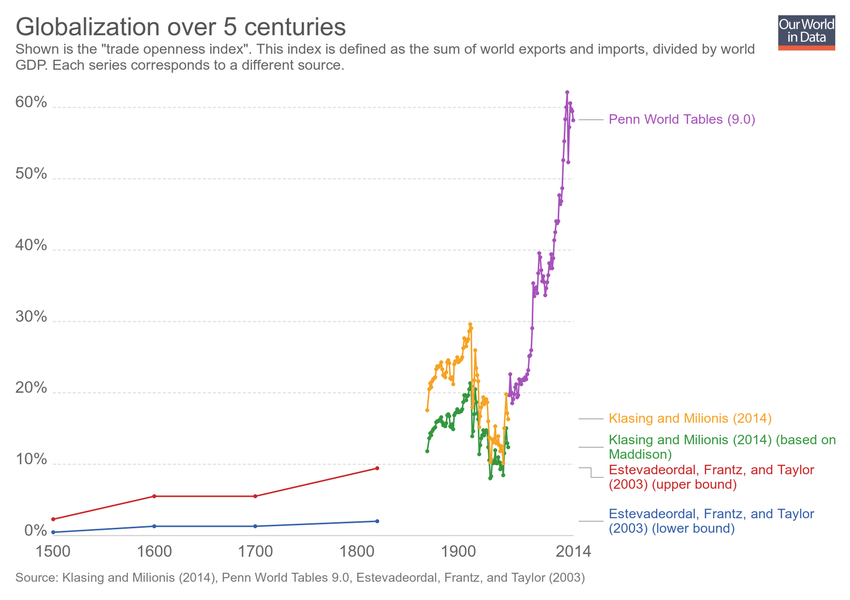
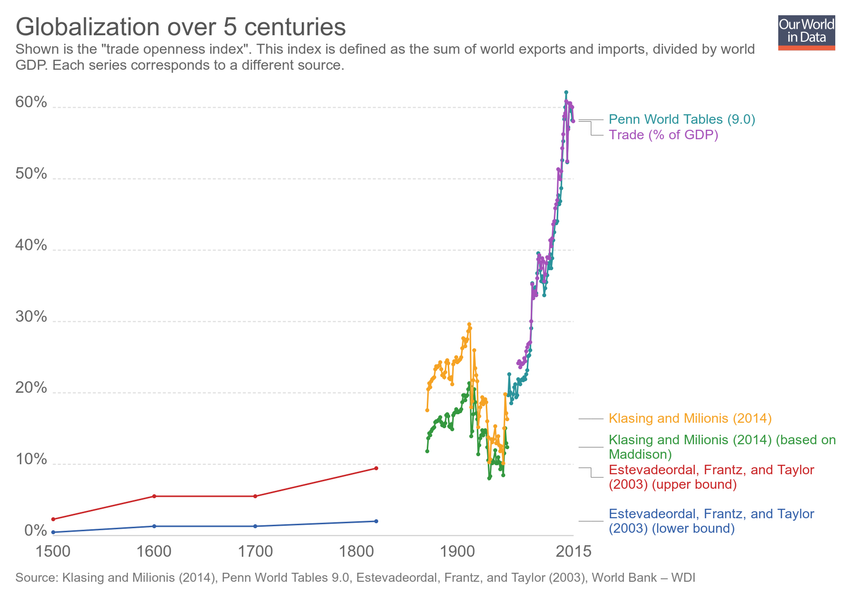
Updating chart globalization-over-5-centuries

diff --git a/grapher/globalization-over-5-centuries.html b/grapher/globalization-over-5-centuries.html
@@ -1,4 +1,4 @@
-<!doctype html><html><head><meta name="viewport" content="width=device-width, initial-scale=1" /><title>Globalization over 5 centuries - Our World in Data</title><meta name="description" content="Shown is the &quot;trade openness index&quot;. This index is defined as the sum of world exports and imports, divided by world GDP. Each series corresponds to a different source." /><link rel="canonical" href="https://ourworldindata.org/grapher/globalization-over-5-centuries" /><meta property="fb:app_id" content="1149943818390250" /><meta property="og:url" content="https://ourworldindata.org/grapher/globalization-over-5-centuries" /><meta property="og:title" content="Globalization over 5 centuries" /><meta property="og:description" content="Shown is the &quot;trade openness index&quot;. This index is defined as the sum of world exports and imports, divided by world GDP. Each series corresponds to a different source." /><meta property="og:image" content="https://ourworldindata.org/grapher/exports/globalization-over-5-centuries.png?v=6" /><meta property="og:image:width" content="850" /><meta property="og:image:height" content="600" /><meta property="og:site_name" content="Our World in Data" /><meta name="twitter:card" content="summary_large_image" /><meta name="twitter:site" content="@OurWorldInData" /><meta name="twitter:creator" content="@OurWorldInData" /><meta name="twitter:title" content="Globalization over 5 centuries" /><meta name="twitter:description" content="Shown is the &quot;trade openness index&quot;. This index is defined as the sum of world exports and imports, divided by world GDP. Each series corresponds to a different source." /><meta name="twitter:image" content="https://ourworldindata.org/grapher/exports/globalization-over-5-centuries.png?v=6" /><style>
+<!doctype html><html><head><meta name="viewport" content="width=device-width, initial-scale=1" /><title>Globalization over 5 centuries - Our World in Data</title><meta name="description" content="Shown is the &quot;trade openness index&quot;. This index is defined as the sum of world exports and imports, divided by world GDP. Each series corresponds to a different source." /><link rel="canonical" href="https://ourworldindata.org/grapher/globalization-over-5-centuries" /><meta property="fb:app_id" content="1149943818390250" /><meta property="og:url" content="https://ourworldindata.org/grapher/globalization-over-5-centuries" /><meta property="og:title" content="Globalization over 5 centuries" /><meta property="og:description" content="Shown is the &quot;trade openness index&quot;. This index is defined as the sum of world exports and imports, divided by world GDP. Each series corresponds to a different source." /><meta property="og:image" content="https://ourworldindata.org/grapher/exports/globalization-over-5-centuries.png?v=7" /><meta property="og:image:width" content="850" /><meta property="og:image:height" content="600" /><meta property="og:site_name" content="Our World in Data" /><meta name="twitter:card" content="summary_large_image" /><meta name="twitter:site" content="@OurWorldInData" /><meta name="twitter:creator" content="@OurWorldInData" /><meta name="twitter:title" content="Globalization over 5 centuries" /><meta name="twitter:description" content="Shown is the &quot;trade openness index&quot;. This index is defined as the sum of world exports and imports, divided by world GDP. Each series corresponds to a different source." /><meta name="twitter:image" content="https://ourworldindata.org/grapher/exports/globalization-over-5-centuries.png?v=7" /><style>
         html, body {
             height: 100%;
             margin: 0;
@@ -20,8 +20,8 @@
         }
     </style><noscript><style>
                     figure { display: none !important; }
-                </style></noscript><link rel="stylesheet" href="https://ourworldindata.org/grapher/assets/commons.bundle.9b8c6ed3f71d7662b5f2.css" /><link rel="preload" href="/grapher/data/variables/97701+97698+97702+97700+97703.json?v=6" as="fetch" crossorigin /></head><body class="singleChart"><figure data-grapher-src="/grapher/globalization-over-5-centuries"></figure><noscript id="fallback"><img src="/grapher/exports/globalization-over-5-centuries.svg" /><p>Interactive visualization requires JavaScript</p></noscript><script src="https://cdn.polyfill.io/v2/polyfill.min.js?features=es6,fetch"></script><script src="https://ourworldindata.org/grapher/assets/commons.bundle.9b8c6ed3f71d7662b5f2.js"></script><script src="https://ourworldindata.org/grapher/assets/charts.bundle.9b8c6ed3f71d7662b5f2.js"></script><script>
-        var jsonConfig = {"id":2903,"map":{"projection":"World","colorSchemeLabels":[],"colorSchemeValues":[],"customNumericColors":[],"customCategoryColors":{},"customCategoryLabels":{},"customHiddenCategories":{}},"tab":"chart","slug":"globalization-over-5-centuries","type":"LineChart","title":"Globalization over 5 centuries","xAxis":{"scaleType":"linear"},"yAxis":{"min":0,"scaleType":"linear"},"version":6,"subtitle":"Shown is the \"trade openness index\". This index is defined as the sum of world exports and imports, divided by world GDP. Each series corresponds to a different source.","hasMapTab":false,"stackMode":"absolute","dimensions":[{"display":{"name":"Klasing and Milionis (2014) (based on Maddison)"},"property":"y","variableId":97701},{"display":{"name":"Penn World Tables (9.0)"},"property":"y","variableId":97698},{"display":{"name":"Estevadeordal, Frantz, and Taylor (2003) (upper bound)"},"property":"y","variableId":97702},{"display":{"name":"Klasing and Milionis (2014)"},"property":"y","variableId":97700},{"display":{"name":"Estevadeordal, Frantz, and Taylor (2003) (lower bound)"},"property":"y","variableId":97703}],"hasChartTab":true,"isPublished":true,"selectedData":[{"index":0,"entityId":355},{"index":1,"entityId":355},{"index":2,"entityId":355},{"index":3,"entityId":355},{"index":4,"entityId":355},{"index":5,"entityId":355}],"addCountryMode":"disabled","baseColorScheme":"owid-distinct","hideTitleAnnotation":true};
+                </style></noscript><link rel="stylesheet" href="https://ourworldindata.org/grapher/assets/commons.bundle.9b8c6ed3f71d7662b5f2.css" /><link rel="preload" href="/grapher/data/variables/97701+97698+97702+97700+97703+2343.json?v=7" as="fetch" crossorigin /></head><body class="singleChart"><figure data-grapher-src="/grapher/globalization-over-5-centuries"></figure><noscript id="fallback"><img src="/grapher/exports/globalization-over-5-centuries.svg" /><p>Interactive visualization requires JavaScript</p></noscript><script src="https://cdn.polyfill.io/v2/polyfill.min.js?features=es6,fetch"></script><script src="https://ourworldindata.org/grapher/assets/commons.bundle.9b8c6ed3f71d7662b5f2.js"></script><script src="https://ourworldindata.org/grapher/assets/charts.bundle.9b8c6ed3f71d7662b5f2.js"></script><script>
+        var jsonConfig = {"id":2903,"map":{"projection":"World","colorSchemeLabels":[],"colorSchemeValues":[],"customNumericColors":[],"customCategoryColors":{},"customCategoryLabels":{},"customHiddenCategories":{}},"tab":"chart","slug":"globalization-over-5-centuries","type":"LineChart","title":"Globalization over 5 centuries","xAxis":{"scaleType":"linear"},"yAxis":{"min":0,"scaleType":"linear"},"version":7,"subtitle":"Shown is the \"trade openness index\". This index is defined as the sum of world exports and imports, divided by world GDP. Each series corresponds to a different source.","hasMapTab":false,"stackMode":"absolute","dimensions":[{"display":{"name":"Klasing and Milionis (2014) (based on Maddison)"},"property":"y","variableId":97701},{"display":{"name":"Penn World Tables (9.0)"},"property":"y","variableId":97698},{"display":{"name":"Estevadeordal, Frantz, and Taylor (2003) (upper bound)"},"property":"y","variableId":97702},{"display":{"name":"Klasing and Milionis (2014)"},"property":"y","variableId":97700},{"display":{"name":"Estevadeordal, Frantz, and Taylor (2003) (lower bound)"},"property":"y","variableId":97703},{"display":{},"property":"y","variableId":2343}],"hasChartTab":true,"isPublished":true,"selectedData":[{"index":0,"entityId":355},{"index":1,"entityId":355},{"index":2,"entityId":355},{"index":3,"entityId":355},{"index":4,"entityId":355},{"index":5,"entityId":355}],"addCountryMode":"change-country","baseColorScheme":"owid-distinct","hideTitleAnnotation":true};
         var figure = document.getElementsByTagName("figure")[0];
         try {
             window.App = {};
